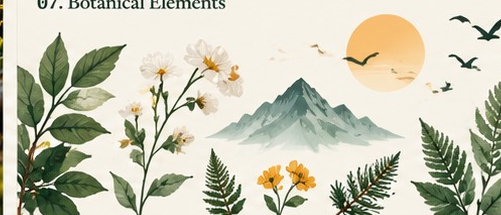
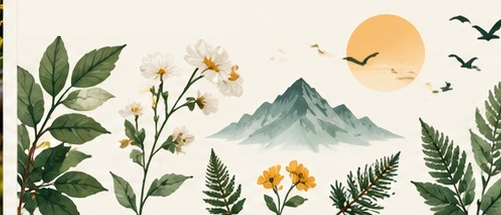
fix(ui): polish hero botanical artwork placement, opacity and readability

Changed region(s): [[0.0599, 0.0, 0.4491, 0.0558]]

diff --git a/client/src/components/home/HomeView.tsx b/client/src/components/home/HomeView.tsx
@@ -79,11 +79,6 @@ export const HomeView: React.FC = () => {
           <div className="grid grid-cols-12 min-h-[460px]">
             {/* Left Column: Editorial Headline & Actions */}
             <div className="col-span-6 p-10 xl:p-14 flex flex-col justify-between z-10 relative overflow-hidden">
-              {/* Subtle Botanical Elements Background Watermark */}
-              <div className="absolute -bottom-10 -left-10 pointer-events-none z-0 opacity-15">
-                <BotanicalElementsDecor className="w-60 h-auto" />
-              </div>
-
               <div className="space-y-4 relative z-10">
                 <div className="flex items-center space-x-2 text-xs font-mono uppercase tracking-wider text-forest font-semibold">
                   <BotanicalLeafSprig className="w-4 h-4 text-forest" />
@@ -103,7 +98,7 @@ export const HomeView: React.FC = () => {
                 </p>
               </div>
 
-              <div className="pt-6 space-y-6">
+              <div className="pt-6 space-y-6 relative z-10">
                 {/* Primary Action Button */}
                 <div>
                   <button
@@ -117,26 +112,36 @@ export const HomeView: React.FC = () => {
                 </div>
 
                 {/* Three Naturalist Stat Counters */}
-                <div className="grid grid-cols-3 gap-6 pt-4 border-t border-stone-light/60">
-                  <div>
-                    <div className="font-serif text-3xl font-medium text-ink">3</div>
-                    <div className="font-mono text-[11px] tracking-wider uppercase text-ink-muted mt-0.5">
-                      Disciplines
+                <div className="relative pt-4 border-t border-stone-light/60">
+                  <div className="relative z-10 grid grid-cols-3 gap-6">
+                    <div className="relative z-10">
+                      <div className="font-serif text-3xl font-medium text-ink">3</div>
+                      <div className="font-mono text-[11px] tracking-wider uppercase text-ink-muted mt-0.5">
+                        Disciplines
+                      </div>
                     </div>
-                  </div>
-                  <div>
-                    <div className="font-serif text-3xl font-medium text-ink">10+</div>
-                    <div className="font-mono text-[11px] tracking-wider uppercase text-ink-muted mt-0.5">
-                      Minutes Outdoors
+                    <div className="relative z-10">
+                      <div className="font-serif text-3xl font-medium text-ink">10+</div>
+                      <div className="font-mono text-[11px] tracking-wider uppercase text-ink-muted mt-0.5">
+                        Minutes Outdoors
+                      </div>
                     </div>
-                  </div>
-                  <div>
-                    <div className="font-serif text-3xl font-medium text-ink">∞</div>
-                    <div className="font-mono text-[11px] tracking-wider uppercase text-ink-muted mt-0.5">
-                      Real Discoveries
+                    <div className="relative z-10">
+                      <div className="font-serif text-3xl font-medium text-ink">∞</div>
+                      <div className="font-mono text-[11px] tracking-wider uppercase text-ink-muted mt-0.5">
+                        Real Discoveries
+                      </div>
                     </div>
                   </div>
                 </div>
+              </div>
+
+              {/* Subtle Botanical Landscape & Bird Illustration Accent (fully inside bottom-left hero panel) */}
+              <div
+                className="absolute bottom-0 left-0 pointer-events-none select-none z-0 opacity-10 max-w-[85%] h-32 flex items-end justify-start overflow-hidden"
+                aria-hidden="true"
+              >
+                <BotanicalElementsDecor className="w-auto h-full" />
               </div>
             </div>
 
